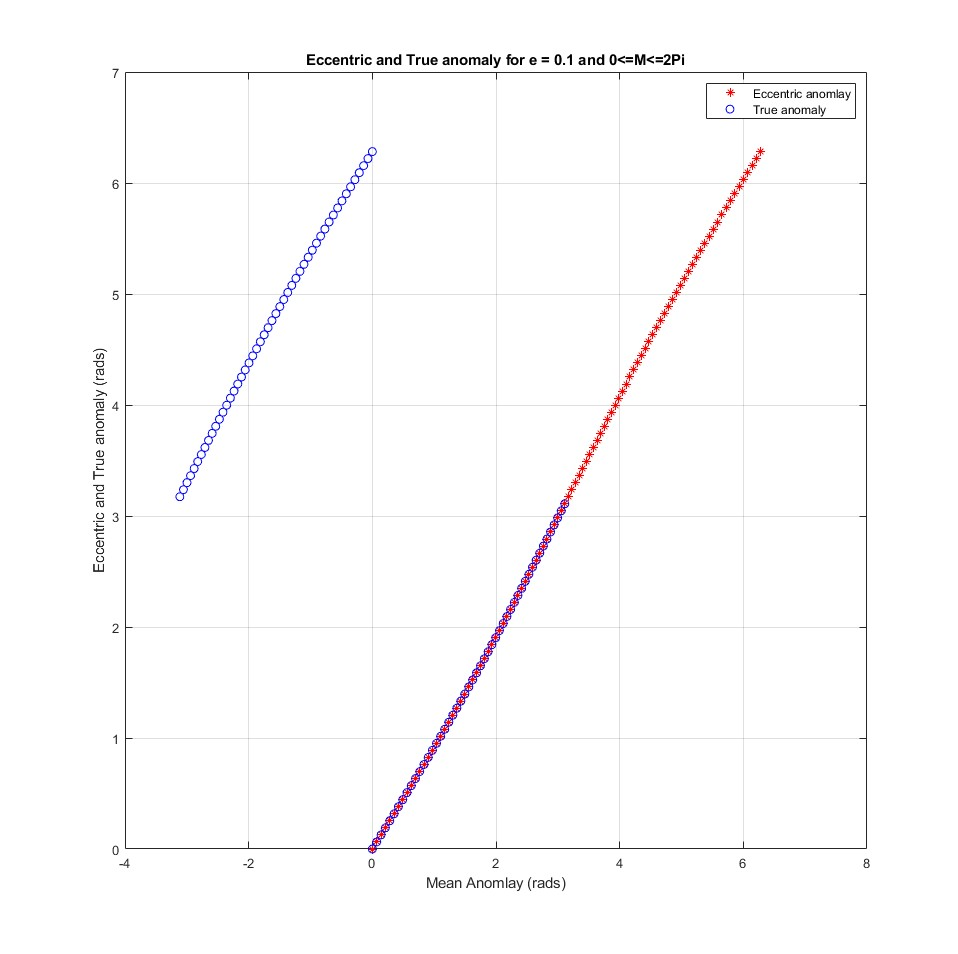
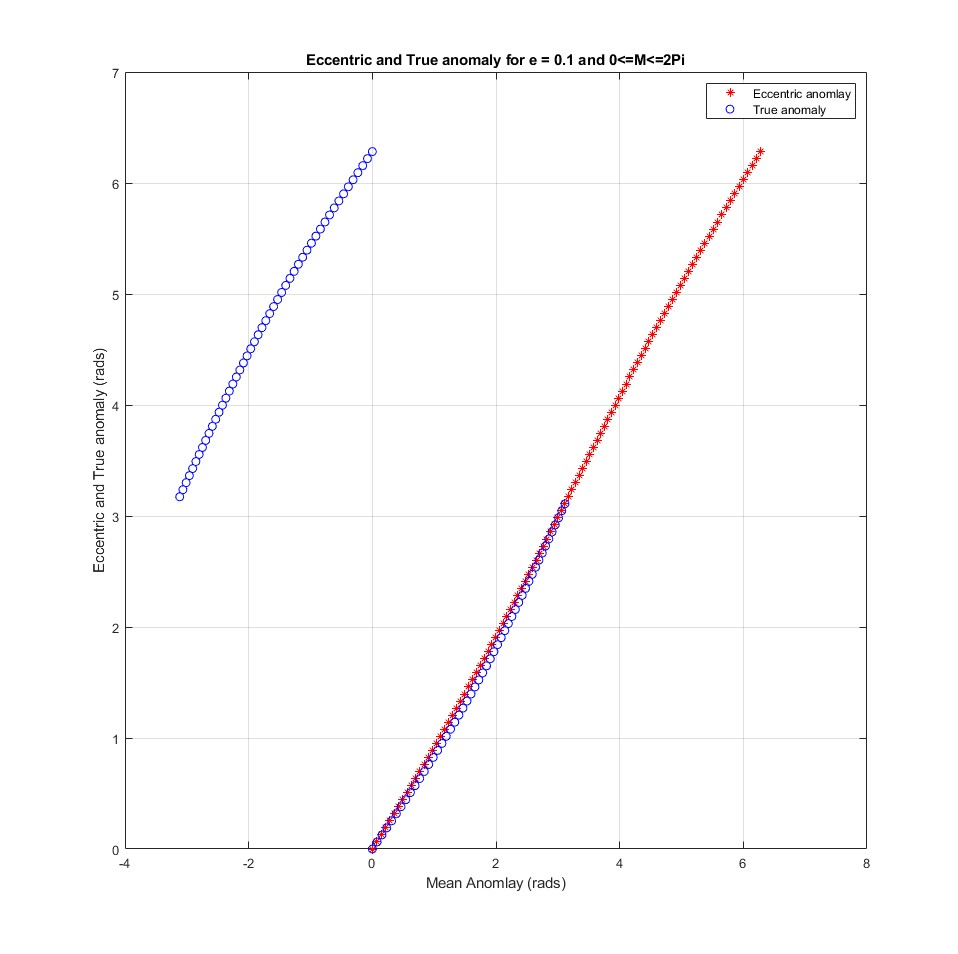
180 hw2 upload

diff --git a/MAE_180/hw2.m b/MAE_180/hw2.m
@@ -4,16 +4,14 @@ clear;clc;
 
 %using newtonian method listed in the notes on oct 15th
 
-Mt = 5.3454975;
-E = Mt;
+Mt = 2.429771612;
+E1 = Mt;
 e = 0.5;
-%check = ((E-e*sin(E)) - Mt) >= 0.00000000001;
-Ek = E;
+Ek = E1;
 count = 0;
-%while check
 for c = 1:100
     Ek_plus = Ek - ((Ek - e*sin(Ek) - Mt)/(1-e*cos(Ek)));
-    %check = ((Ek_plus-e*sin(Ek_plus)) - Mt) >= 0.00000000001;
+
     Ek = Ek_plus;
     count = count +1;
 end
@@ -52,13 +50,14 @@ grid on;
 %% functions
 
 function out = ecc2ecctrueanom(e,M) 
-     Ek = M;
-     for c = 1:100
-        Ek_plus = Ek - ((Ek - e.*sin(Ek) - M)/(1-e.*cos(Ek)));
-        Ek = Ek_plus;
+     E = M;
+     acc = 1e-9;  
+     diff = 1;   
+     while abs(diff) > acc
+        diff = E-e*sin(E)-M;
+        E = E-diff/(1-e*cos(E));  
      end
-     E = Ek;
-     Nu = 2.*atan(sqrt((1+e)./1-e).*tan(E./2));
+     Nu = 2 * atan2(sqrt(1+e)*sin(E/2), sqrt(1-e)*cos(E/2));
      out = [E,Nu];
 end
 
